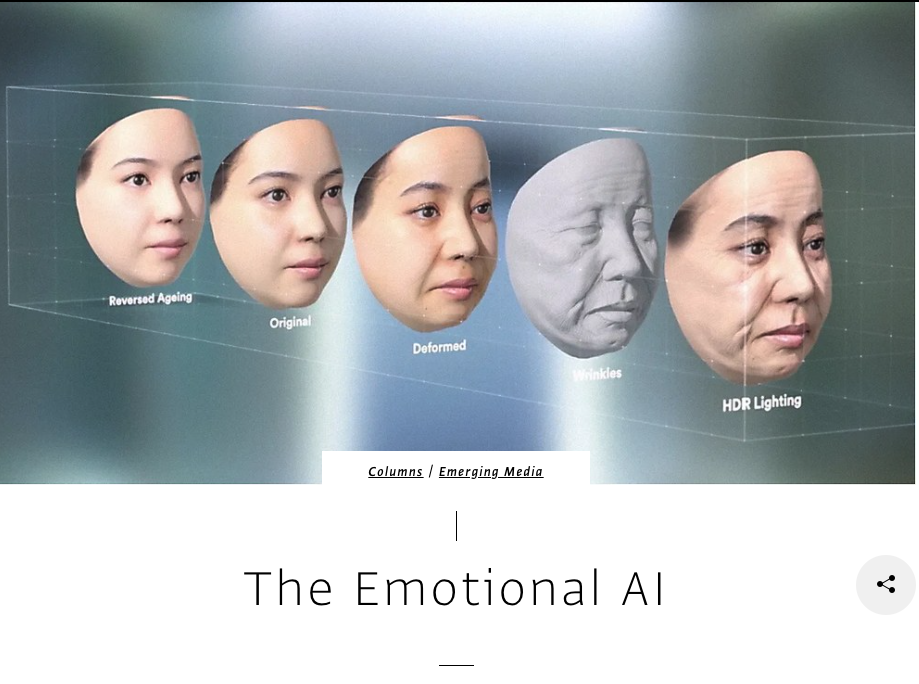
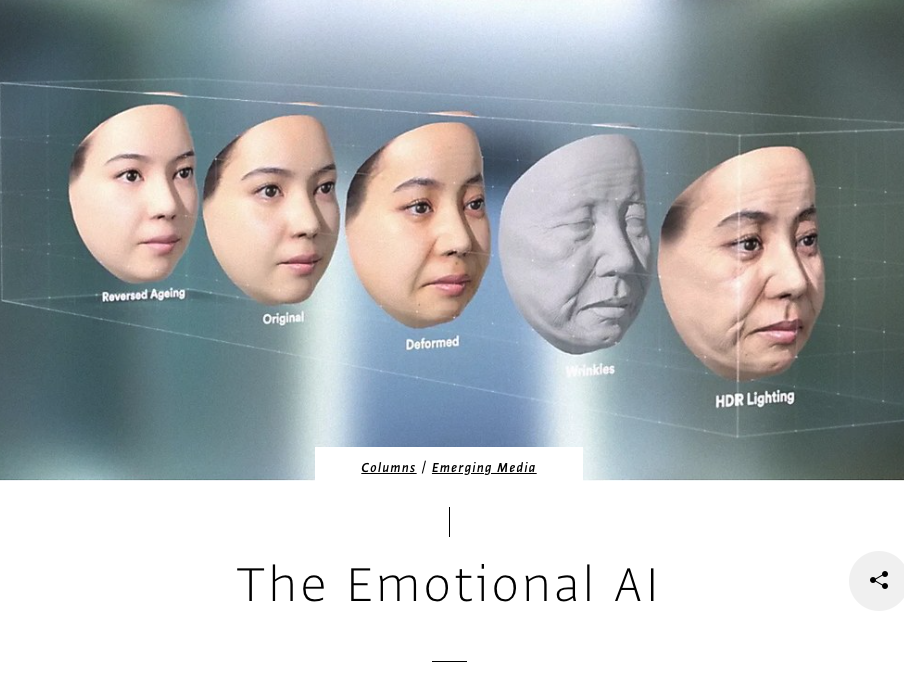
deploying on 2025-06-16 18:15:28

diff --git a/_includes/css/head.css b/_includes/css/head.css
@@ -203,7 +203,7 @@
 	top:0;
 	height:100%;
 	left:0;
-	width:128.58%
+	width:100%
 }
 .pxout amp-img img{
 	object-fit:cover;
